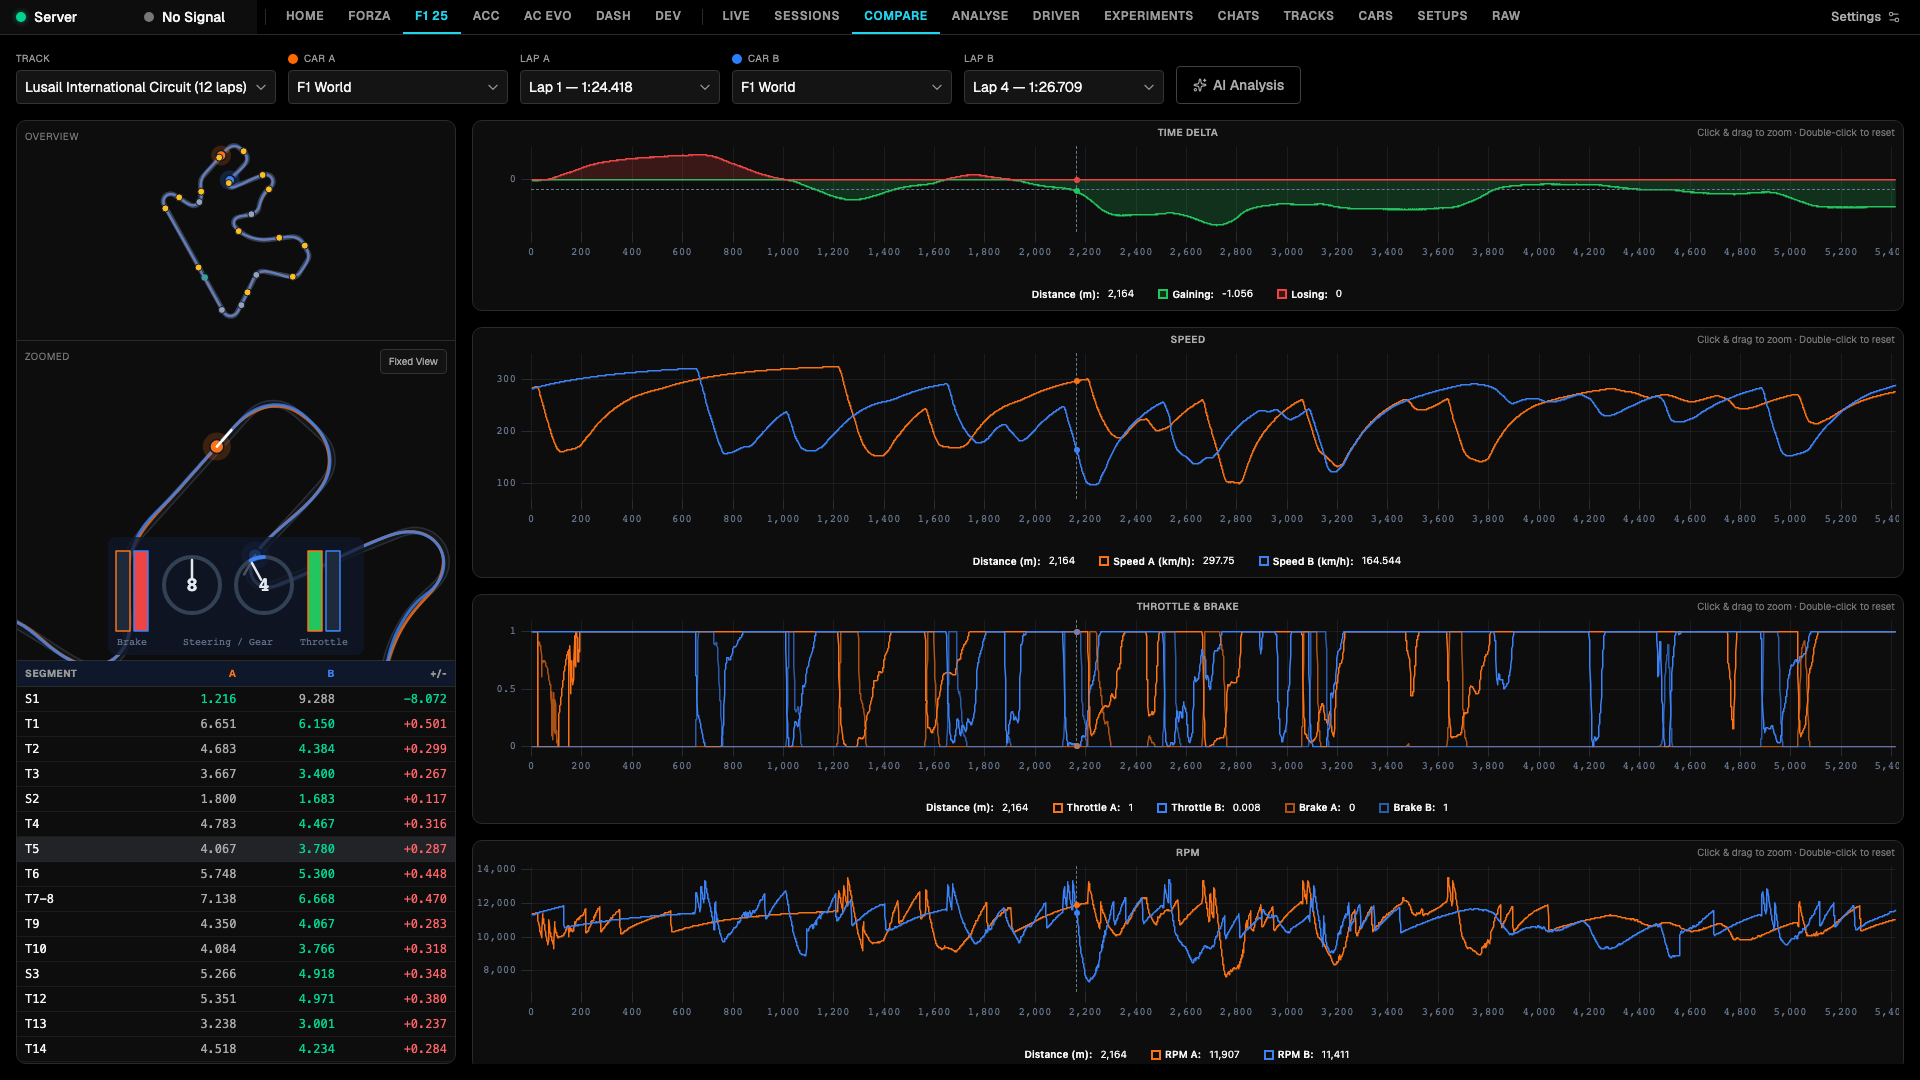
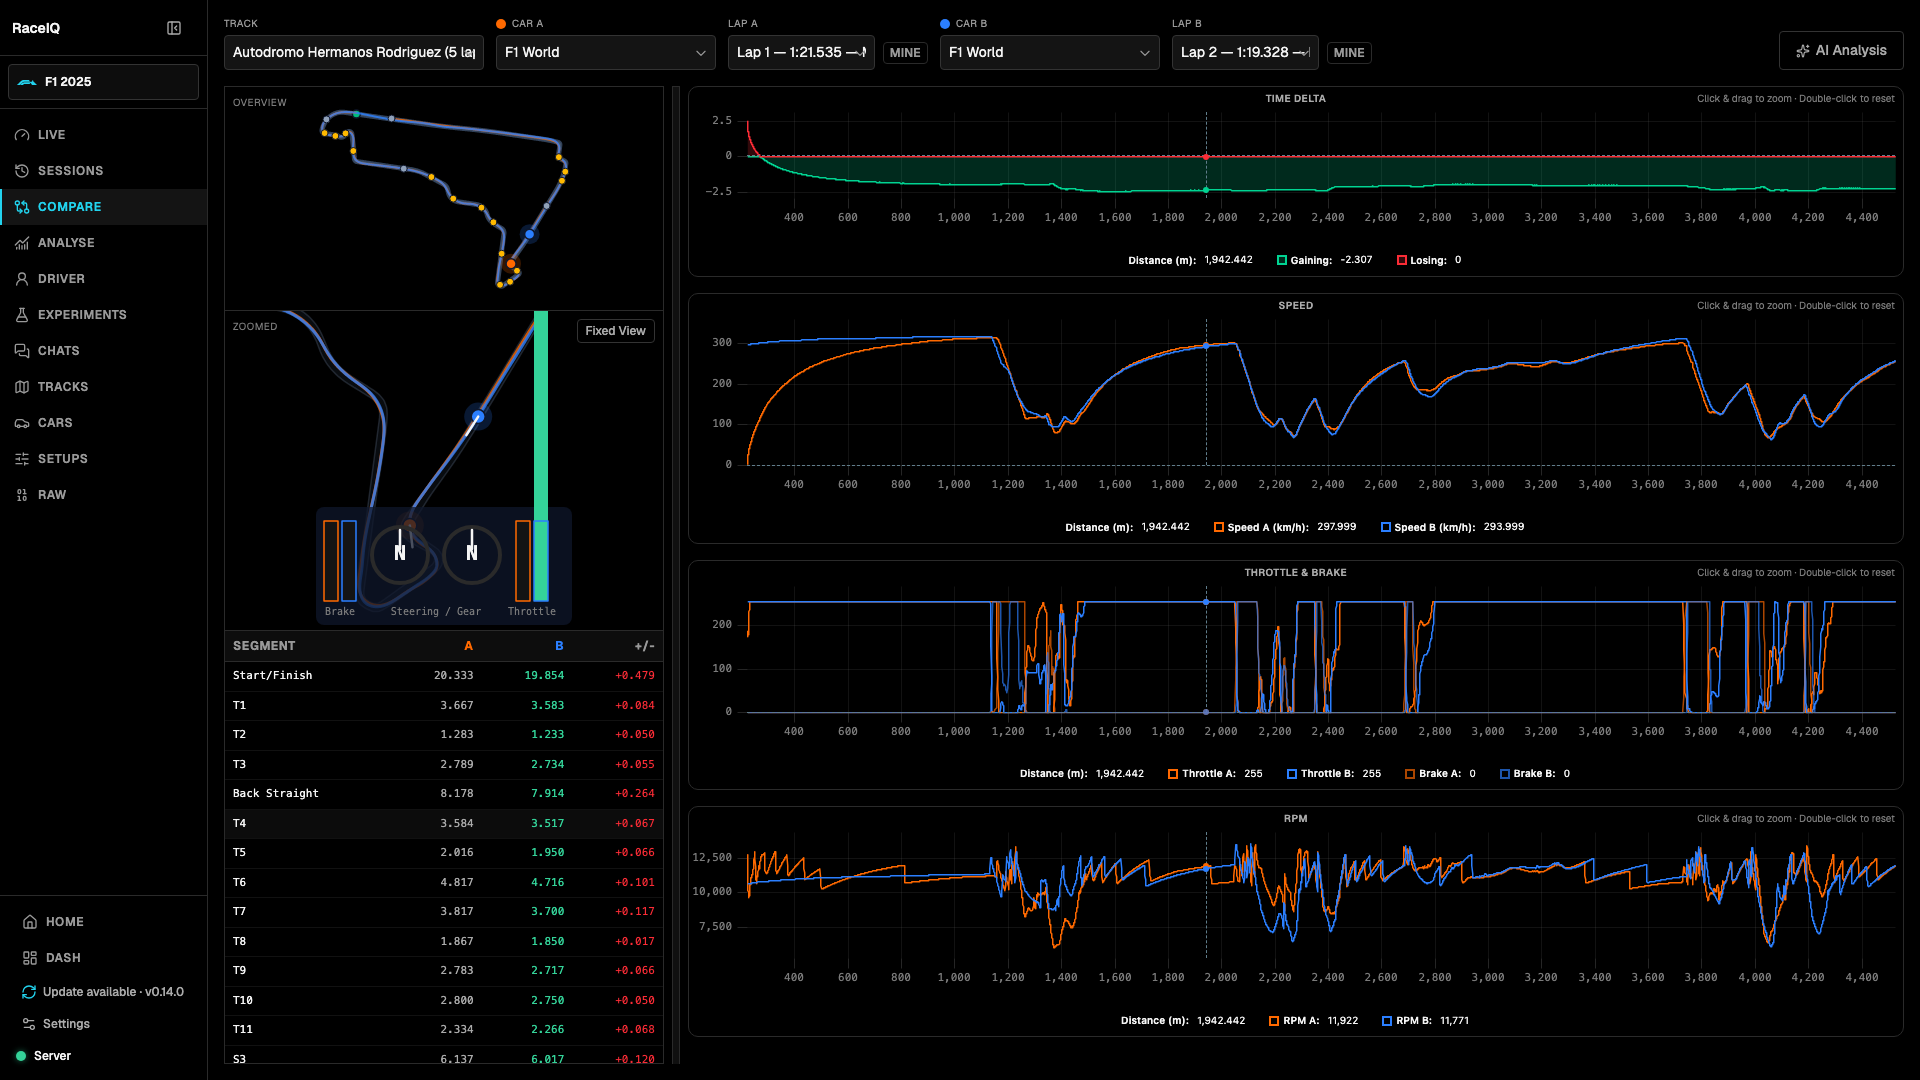
docs: refresh README and screenshots (#296)
## Summary
- expand README with user-facing feature coverage
- consolidate game priority into supported-games table
- refresh marketing screenshots, including 3D lap analysis

## Verification
- PW_SERVER_SET=seeded MARKETING_BASE_URL=http://localhost:3120 bun run
screenshots (12 passed)

diff --git a/playwright/tests/marketing/marketing.spec.ts b/playwright/tests/marketing/marketing.spec.ts
@@ -6,25 +6,37 @@ const SCREENSHOT_DIR = resolve(__dirname, "..", "..", "..", "assets", "screensho
 
 const PAGES = [
   { name: "home", path: "/" },
-  { name: "lap-analytics", path: "/f125/analyse?track=32&car=41&lap=72&cursor=12000&viz=3d" },
-  { name: "compare", path: "/f125/compare?track=32&carA=41&lapA=72&carB=41&lapB=76", hover: ".u-over" },
+  { name: "lap-analytics", path: "/f125/analyse?track=19&car=41&lap=4&viz=3d" },
+  { name: "compare", path: "/f125/compare?track=19&carA=41&lapA=4&carB=41&lapB=5", hover: ".u-over" },
   { name: "tracks", path: "/f125/tracks" },
   { name: "car-catalogue-f125-grid", path: "/f125/cars" },
   { name: "car-catalogue-forza", path: "/fm23/cars" },
-  { name: "setups", path: "/f125/tracks/32/setups" },
-  { name: "setups-ranges", path: "/f125/tracks/32/setups?subtab=ranges" },
+  { name: "setups", path: "/f125/tracks/19/setups" },
+  { name: "setups-ranges", path: "/f125/tracks/19/setups?subtab=ranges" },
   { name: "car-compare-forza", path: "/fm23/cars?compare=1023,1020,3062" },
+  { name: "experiments-review-overview", path: "/f125/experiments/1/review?laps=4,5,6,7,8&view=overview" },
+  { name: "experiments-review-track", path: "/f125/experiments/1/review?laps=4,5,6,7,8&view=track" },
+  { name: "experiments-review-track-tires", path: "/f125/experiments/1/review?laps=4,5,6,7,8&view=track&trackTab=tires" },
+  { name: "experiments-review-track-balance", path: "/f125/experiments/1/review?laps=4,5,6,7,8&view=track&trackTab=balance" },
+  { name: "experiments-review-track-suspension", path: "/f125/experiments/1/review?laps=4,5,6,7,8&view=track&trackTab=suspension" },
+  { name: "experiments-review-sector-1", path: "/f125/experiments/1/review?laps=4,5,6,7,8&view=s1" },
 ];
-
 for (const page of PAGES) {
   test(`screenshot: ${page.name}`, async ({ page: p }) => {
+    if (page.name === "lap-analytics") test.setTimeout(60_000);
     await p.addInitScript(() => localStorage.setItem("forza-onboarding-complete", "true"));
+    if (page.name.startsWith("experiments-review-")) {
+      const response = await p.request.post("/api/experiments/1/import-laps", {
+        data: { lapIds: [4, 5, 6, 7, 8], experimentVersionId: 2 },
+      });
+      if (![201, 409].includes(response.status())) throw new Error(`Failed to seed experiment review laps: ${response.status()}`);
+    }
     await p.goto(page.path, { waitUntil: "networkidle" });
     await p.waitForTimeout(1500);
     if ("hover" in page && page.hover) {
       const el = p.locator(page.hover).first();
       await el.waitFor({ state: "visible", timeout: 5000 }).catch(() => {});
-      const box = await el.boundingBox();
+      const box = await el.boundingBox().catch(() => null);
       if (box) {
         await p.mouse.move(box.x + box.width * 0.4, box.y + box.height * 0.5);
         await p.waitForTimeout(300);
@@ -33,6 +45,7 @@ for (const page of PAGES) {
     await p.screenshot({
       path: `${SCREENSHOT_DIR}/${page.name}.png`,
       fullPage: false,
+      timeout: page.name === "lap-analytics" ? 30_000 : undefined,
     });
   });
 }

diff --git a/client/src/components/tunes/track-focus/TrackFocusView.tsx b/client/src/components/tunes/track-focus/TrackFocusView.tsx
@@ -38,6 +38,8 @@ interface TrackFocusViewProps {
    *  review (drives the /line-spread racing-line consistency query). Omit to
    *  hide the line-spread lane + map overlay (e.g. Storybook, non-tuning contexts). */
   experimentId?: number | null;
+  activeTab?: Tab;
+  onActiveTabChange?: (tab: Tab) => void;
 }
 
 const TABS = ["consistency", "tires", "balance", "suspension"] as const;
@@ -47,7 +49,7 @@ const TAB_LABELS: Record<Tab, string> = { consistency: "Consistency", tires: "Ti
 /** Data-fetching wrapper: resolves the stint's laps into downsampled traces,
  *  the focus lap's raw telemetry, issues, and track corners, then hands
  *  everything to the presentational `TrackFocusViewInner`. */
-export function TrackFocusView({ gameId, laps, trackOrdinal, focusLapId: controlledFocusId, onFocusLap: controlledOnFocusLap, experimentId }: TrackFocusViewProps) {
+export function TrackFocusView({ gameId, laps, trackOrdinal, focusLapId: controlledFocusId, onFocusLap: controlledOnFocusLap, experimentId, activeTab, onActiveTabChange }: TrackFocusViewProps) {
   // Invalid laps are excluded from the whole Track Focus view —
   // traces, stats, best-lap, ledgers and tyres all read `stintLaps`.
   const stintLaps = useMemo(() => laps.filter((l) => l.isValid).sort((a, b) => a.lapNumber - b.lapNumber), [laps]);
@@ -125,6 +127,8 @@ export function TrackFocusView({ gameId, laps, trackOrdinal, focusLapId: control
       metaSectors={metaSectors}
       shownLapCount={reviewLaps.length}
       totalLapCount={stintLaps.length}
+      activeTab={activeTab}
+      onActiveTabChange={onActiveTabChange}
     />
   );
 }
@@ -151,6 +155,8 @@ export interface TrackFocusViewInnerProps {
   shownLapCount?: number;
   /** Total eligible laps in the stint (for the "showing N of M" caption). */
   totalLapCount?: number;
+  activeTab?: Tab;
+  onActiveTabChange?: (tab: Tab) => void;
 }
 
 /** Presentational Track Focus view — no data fetching, so it can be driven
@@ -170,10 +176,17 @@ export function TrackFocusViewInner({
   metaSectors,
   shownLapCount,
   totalLapCount,
+  activeTab: controlledActiveTab,
+  onActiveTabChange,
 }: TrackFocusViewInnerProps) {
   const [cursorFrac, setCursorFrac] = useState<number | null>(null);
   const [hoverPoints, setHoverPoints] = useState<{ brake: number[]; throttle: number[] } | null>(null);
-  const [activeTab, setActiveTab] = useState<Tab>("consistency");
+  const [localActiveTab, setLocalActiveTab] = useState<Tab>("consistency");
+  const activeTab = controlledActiveTab ?? localActiveTab;
+  const setActiveTab = (tab: Tab) => {
+    setLocalActiveTab(tab);
+    onActiveTabChange?.(tab);
+  };
   const [zoomActive, setZoomActive] = useState(false);
 
   const resolvedTraces = useMemo(() => traces.filter((t): t is LapTrace => !!t), [traces]);

diff --git a/client/src/components/tunes/review/TuneReviewDashboard.tsx b/client/src/components/tunes/review/TuneReviewDashboard.tsx
@@ -45,6 +45,7 @@ interface TuneReviewDashboardProps {
 
 type SectorView = `s${number}`;
 type ReviewView = "overview" | "track" | SectorView;
+type TrackTab = "consistency" | "tires" | "balance" | "suspension";
 
 /**
  * TuneReviewDashboard — post-lap analysis for a finished lap, in the "sector
@@ -58,10 +59,13 @@ export function TuneReviewDashboard({ gameId, trackName, laps, onBack, test, exp
 
   // Focus lap lives in the URL (?lap=<id>) so it's linkable/shareable.
   const navigate = useNavigate();
-  const search = useSearch({ strict: false }) as { lap?: number; view?: ReviewView };
+  const search = useSearch({ strict: false }) as { lap?: number; view?: ReviewView; trackTab?: TrackTab };
   const focusLap = validLaps.find((l) => l.id === search.lap) ?? validLaps[0];
+  const trackTab = search.trackTab ?? "consistency";
   // eslint-disable-next-line @typescript-eslint/no-explicit-any
   const setFocus = (id: number) => navigate({ search: (p: any) => ({ ...p, lap: id }) } as any);
+  // eslint-disable-next-line @typescript-eslint/no-explicit-any
+  const setTrackTab = (tab: TrackTab) => navigate({ search: (p: any) => ({ ...p, view: "track", trackTab: tab }) } as any);
 
   // Point the URL at a real lap when it's missing or stale for this session.
   // The track view is stint-wide: a missing ?lap= there means "All", so leave it.
@@ -308,7 +312,7 @@ export function TuneReviewDashboard({ gameId, trackName, laps, onBack, test, exp
       {/* Detail body — owns its own scroll; the header above stays static. */}
       <div className="flex-1 min-h-0 overflow-y-auto">
         {view === "track" ? (
-          <TrackFocusView gameId={gameId} laps={laps} trackOrdinal={focusLap.trackOrdinal} focusLapId={trackFocusId} onFocusLap={setFocus} experimentId={experimentId ?? test?.experimentId ?? null} />
+          <TrackFocusView gameId={gameId} laps={laps} trackOrdinal={focusLap.trackOrdinal} focusLapId={trackFocusId} onFocusLap={setFocus} experimentId={experimentId ?? test?.experimentId ?? null} activeTab={trackTab} onActiveTabChange={setTrackTab} />
         ) : sectorIndex != null ? (
           <SectorDetailView telemetry={telemetry as unknown as TelemetryPacket[]} sectorTimes={sectorTimes} sectorIndex={sectorIndex} trackOrdinal={focusLap.trackOrdinal} issues={issueGroups.bySector[sectorIndex]} />
         ) : (

diff --git a/client/src/lib/game-routes.ts b/client/src/lib/game-routes.ts
@@ -31,10 +31,12 @@ export type TuneSearch = {
 };
 
 export type TuneReviewView = "overview" | "track" | `s${number}`;
+export type TuneReviewTrackTab = "consistency" | "tires" | "balance" | "suspension";
 export type TuneReviewSearch = {
   laps?: string;
   lap?: number;
   view?: TuneReviewView;
+  trackTab?: TuneReviewTrackTab;
   versionId?: number;
 };
 
@@ -114,13 +116,14 @@ export function validateTuneSearch(search: Record<string, unknown>): TuneSearch 
     view: view as TuneView | undefined,
   };
 }
-
 export function validateTuneReviewSearch(search: Record<string, unknown>): TuneReviewSearch {
   const view = search.view === "overview" || search.view === "track" || (typeof search.view === "string" && /^s[1-9]\d*$/.test(search.view)) ? search.view : undefined;
+  const trackTab = search.trackTab === "consistency" || search.trackTab === "tires" || search.trackTab === "balance" || search.trackTab === "suspension" ? search.trackTab : undefined;
   return {
     laps: typeof search.laps === "string" ? search.laps : undefined,
     lap: parseOptionalNumber(search.lap),
     view: view as TuneReviewView | undefined,
+    trackTab,
     versionId: parseOptionalNumber(search.versionId),
   };
 }

diff --git a/README.md b/README.md
@@ -38,34 +38,30 @@ Check out the [demo](https://www.youtube.com/watch?v=hWuIItofivA) and [screensho
 
 ## Features
 
-- **Live telemetry** — real-time dashboard with speed, inputs, tires, suspension, G-forces, and 3D car visualization
-- **Track mapping** — includes track outlines with live car position and automatic track mapping for tracks that havent been included in the software
-- **Lap analysis** — automatic lap and corner detection, side-by-side comparison with time deltas
-- **AI coaching** — send any lap for AI-powered technique, setup, and tire feedback
-- **Vehicle setup** — tune catalog, car browser with performance data
-- **Tune analysis** — compare the fastest tunes/setups and see popular setting ranges across the community
+- **Live telemetry dashboards** — real-time speed, inputs, tires, suspension, G-forces, fuel, ERS/DRS, and 3D car visualization
+- **Session recording and history** — automatically save laps and sessions locally, filter your laps, review recaps, sector times, and pace statistics
+- **Lap analysis and replay** — spot where time is gained or lost with corner detection, track playback, telemetry traces, insights, and sector maps
+- **Compare laps** — see two laps side by side with time differences, fastest sectors, aligned track positions, and optional AI analysis
+- **AI coaching and chats** — get feedback on driving technique, setups, tires, and long-term improvement, with saved conversations and optional local AI
+- **Driver profile and trends** — track driving style, consistency, time loss, and improvement across recent laps
+- **Tuning experiments** — test setup changes, coaching drills, and driving improvements, then review the results
+- **Vehicle and setup catalogue** — browse cars, tracks, performance data, tunes, setup details, and community setting ranges
+- **Tune analysis** — compare fast tunes and find popular setup ranges across the community
+- **Track mapping and guides** — see your live position, map new tracks automatically, and use turn numbers, sectors, and track guides
+- **Race results** — review qualifying, podiums, fastest laps, pit stops, strategies, and position timelines
+- **Data portability** — import MoTeC logs and saved session captures; export individual laps or complete sessions
+- **Multi-game support** — use RaceIQ with Forza Motorsport 2023, F1 2025, Assetto Corsa Competizione, Assetto Corsa Evo, and iRacing
 
 ## Supported Games
 
-| Game | Status | Public Tunes | Public Guides | Tune Creator |
-|------|--------|--------------|---------------|--------------|
-| Assetto Corsa Evo | Supported | No | No | No |
-| F1 2025 | Supported | Yes | Yes | No |
-| Assetto Corsa Competizione | Supported | Yes | Yes | No |
-| Forza Motorsport 2023 | Supported | No | No | Yes |
-| iRacing | Supported (Windows native SDK) | No | No | No |
+| Game | Priority | Public Tunes | Public Guides | Tune Creator |
+|------|----------|--------------|---------------|--------------|
+| Assetto Corsa Evo | High | No | No | No |
+| iRacing | High | No | No | No |
+| F1 2025 | Medium | Yes | Yes | No |
+| Assetto Corsa Competizione | Medium | Yes | Yes | No |
+| Forza Motorsport 2023 | Low | No | No | Yes |
 | Le Mans Ultimate | Planned | — | — | — |
-
-### Development priority
-
-Supported games are listed in priority order. Priority is based on ongoing game support and freshness — how actively each title is still being updated by its developer:
-
-1. **Assetto Corsa Evo** — actively developed, frequent content updates.
-2. **iRacing** — actively developed and read directly through its Windows shared-memory SDK.
-3. **F1 2025** — current-season title, actively maintained telemetry spec.
-4. **Assetto Corsa Competizione** — stable and widely raced, but feature-complete upstream.
-5. **Forza Motorsport 2023** — lowest priority; no longer meaningfully updated and its telemetry format is frozen.
-
 Lower priority means slower turnaround on new features for that title — it does not mean deprecated. All supported games keep working.
 
 ## Getting Started

diff --git a/assets/screenshots/README.md b/assets/screenshots/README.md
@@ -56,6 +56,30 @@
 
 ![dash](dash.png)
 
+### experiments review overview
+
+![experiments review overview](experiments-review-overview.png)
+
+### experiments review sector 1
+
+![experiments review sector 1](experiments-review-sector-1.png)
+
+### experiments review track balance
+
+![experiments review track balance](experiments-review-track-balance.png)
+
+### experiments review track suspension
+
+![experiments review track suspension](experiments-review-track-suspension.png)
+
+### experiments review track tires
+
+![experiments review track tires](experiments-review-track-tires.png)
+
+### experiments review track
+
+![experiments review track](experiments-review-track.png)
+
 ### home
 
 ![home](home.png)
